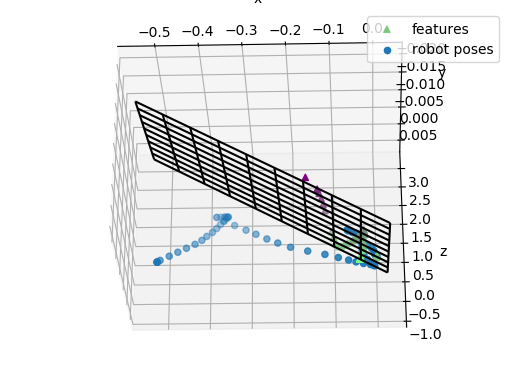
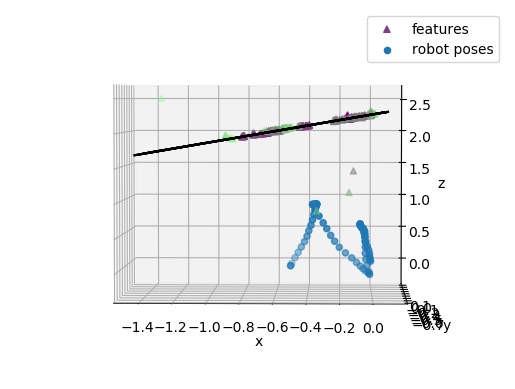
working triangulation and ransac

Changed region(s): [[0.2175, 0.0617, 0.8699, 0.8946], [0.8388, 0.0925, 0.8699, 0.1234]]

diff --git a/l3_mapping.py b/l3_mapping.py
@@ -5,12 +5,13 @@ import os
 import glob
 
 import numpy as np
-import cv2 
+import cv2
 import scipy.io as sio
 from matplotlib import pyplot as plt
 from mpl_toolkits.mplot3d import Axes3D
 import numpy.linalg as la
 from sympy import Plane, Point3D
+
 
 class FeatureProcessor:
     def __init__(self, data_folder, n_features=500, median_filt_multiplier=1.0):
@@ -78,33 +79,33 @@ class FeatureProcessor:
             kp, des = self.get_features(img)
             matches = self.bf.match(des, des_0)
 
-            matches = sorted(matches, key=lambda x: x.distance)
-            avg = sum(point.distance for point in matches)/len(matches)
+            # matches = sorted(matches, key=lambda x: x.distance)
+            avg = sum(point.distance for point in matches) / len(matches)
 
             # lowes ratio test to get the good matches
             for match in matches:  # not sure if there's a better way to filter this
-                if match.distance < 0.75*avg:
+                if match.distance < 1.2 * avg:
                     train_f_num = match.trainIdx
                     query_f_num = match.queryIdx
                     # print(train_f_num, query_f_num)
                     self.feature_match_locs[img, train_f_num, 0] = kp[query_f_num].pt[0]
-                    self.feature_match_locs[img, train_f_num, 1] = kp[query_f_num].pt[1]    
+                    self.feature_match_locs[img, train_f_num, 1] = kp[query_f_num].pt[1]
 
-        # includes the first frame feature locations
+                    # includes the first frame feature locations
         return self.feature_match_locs
 
     def ransac(self, triangulated_points):
         """ Feature rejection function
         :param triangulated_points: np array, (num_features, 3) all triangulated points
-        :return good_points: (N, 3) where N is the total number of inliers
+        :return bestinliers: (N, ), indices of the inliers, where N is the total number of inliers
         """
         # we only expect to have the 5-10% outliers, so we'll set the minimum inliers
         # to be 92% of the total number of features.
         num_features = triangulated_points.shape[0]
-        
+
         # tunable parameters
         mininliers = .92 * num_features
-        alpha = 0.005
+        alpha = 0.045
 
         maxinliers = 0
         sympy_points = np.ndarray((num_features, 3))
@@ -118,50 +119,47 @@ class FeatureProcessor:
             normal, d = self.compute_plane(triangulated_points[rand_pts, :])
 
             # make the points into a plane object
-            point = triangulated_points[rand_pts[0], :]
-            print('first point on plane: ' + str(point))
-            print('normal: ' + str(normal))
-            plane = Plane(Point3D(point[0], point[1], point[2]), normal_vector=normal)
+            plane = Plane(Point3D(triangulated_points[rand_pts[0], :]), normal_vector=normal)
 
             # compute the reprojection error for all the points
-            reproj = np.ndarray((num_features, 1))
+            reproj = np.ndarray((num_features, ))
             for j in range(num_features):
-                reproj[i] = plane.distance(Point3D(sympy_points[i, 0], sympy_points[i, 1], sympy_points[i, 2]))
-            print(reproj)
-            inliers = reproj[reproj < alpha]
-            ninliers = inliers.shape[0]
+                reproj[j] = plane.distance(Point3D(sympy_points[j, :]))
+            # print(reproj)
+            inliers = reproj < alpha
+            ninliers = np.sum(inliers)
 
             # update the max values if applicable
             if ninliers > maxinliers:
                 maxinliers = ninliers
                 bestinliers = inliers
-                # check exit condition 
+                # check exit condition
                 if maxinliers > mininliers:
+                    print('required', i, 'RANSAC attempts to remove outliers.')
                     break
 
         print('number of inliers: ' + str(maxinliers))
-        # recompute the equation of the plane from the best inliers
-        # a, b, c, d = self.compute_plane(bestinliers)
+
+        # returns the inlier indices, not the actual values
         return bestinliers
 
     def compute_plane(self, points):
         """ Compute the equation of the plane that best fits the set of points provided
-        If given 3 points, then the problem will have an exact solution. 
+        If given 3 points, then the problem will have an exact solution.
         :param points: np array, Nx3 array of points (x, y, z)
         :return normal, d: normal is (3,) np array of [a, b, c], and d is the constant
             in the equation of the plane. """
-
         # fit a plane to the feature point cloud for illustration
         # see https://math.stackexchange.com/questions/99299/best-fitting-plane-given-a-set-of-points
         centroid = points.mean(axis=0)
-        points_minus_cent = points - centroid # subtract centroid
+        points_minus_cent = points - centroid  # subtract centroid
         u, _, _ = np.linalg.svd(points_minus_cent.T)
         normal = u.T[2]
 
         # normal from svd, point is centroid, get d = -(ax + by + cz)
         d = -centroid.dot(normal)
 
-        print('The equation is {0}x + {1}y + {2}z = {3}'.format(normal[0], normal[1], normal[2], d))
+        # print('The equation is {0}x + {1}y + {2}z = {3}'.format(normal[0], normal[1], normal[2], d))
         return normal, d
 
 def triangulate(feature_data, tf, inv_K):
@@ -174,31 +172,32 @@ def triangulate(feature_data, tf, inv_K):
     :param tf: np array (num_images, 4, 4) - homogeneous transformations for each frame
     :param inv_K: np array (3, 3) - inverse of the camera intrinsics matrix
     :returns pt: np array (3, ) - point in 3D space """
-    # compute the unit normals in the direction of the feature
-    homogeneous_pts = np.hstack((feature_data, np.ones((tf.shape[0], 1))))
-    rays = np.zeros((67, 3), dtype=float)
-    for i in range(tf.shape[0]):
-        # check that the points are not -1 (i.e. no feature found) first.
-        if homogeneous_pts[i, 0] != -1 and homogeneous_pts[i, 1] != -1:
-            # print(np.dot(tf[i, 0:3, 0:3], np.dot(inv_K, homogeneous_pts[i, :]).T))
-            rays[i, :] = np.dot(tf[i, 0:3, 0:3], np.dot(inv_K, homogeneous_pts[i, :]).T)
-            # normalize the rays
-            rays[i, :] /= la.norm(rays[i, :])
 
-    # extract all the non-zero rays
-    rays = rays[~np.all(rays == 0, axis=1)]
-    # print(rays.shape)
-    # print(rays)
-
-    # compute the sums I - vj.T*vj and (I - vj.T*vj)*cj
+    tot_features = feature_data.shape[0]  # total number of features
     sum1 = np.zeros((3, 3), dtype=float)
-    sum2 = np.zeros((3,), dtype=float)
-    for i in range(rays.shape[0]):
-        sum1 += np.subtract(tf[i, 0:3, 0:3], np.dot(rays[i, :].T, rays[i, :]))
-        sum2 += np.dot(np.subtract(tf[i, 0:3, 0:3], np.dot(rays[i, :].T, rays[i, :])), tf[i, 0:3, 3])
+    sum2 = np.zeros((3, 1), dtype=float)
+
+    for j in range(0, tot_features):
+        x, y = feature_data[j][0], feature_data[j][1]
+
+        if x < 0 or y < 0:
+            # print("Invalid")
+            continue
+
+        r = np.array([x, y, 1]).reshape((3, 1))
+        C = tf[j, 0:3, 0:3]
+        vj = C @ inv_K @ r
+        vj /= np.linalg.norm(vj)
+
+        cent_j = (tf[j][:3, 3]).reshape((3, 1))
+        # print(cent_j.shape)
+
+        sum1 += np.identity(3) - (vj @ vj.T)
+        sum2 += (np.identity(3) - (vj @ vj.T)) @ cent_j
 
     point = np.dot(la.inv(sum1), sum2)
-    return point
+    return point.squeeze()
+
 
 def main():
     min_feature_views = 20  # minimum number of images a feature must be seen in to be considered useful
@@ -210,35 +209,47 @@ def main():
     # load in data, get consistent feature locations
     data_folder = os.path.join(os.getcwd(), 'l3_mapping_data/')
     f_processor = FeatureProcessor(data_folder)
+
     # get_matches includes lowes ratio test for extracting good matches.
-    good_feature_locations = f_processor.get_matches()  # output shape should be (num_images, num_features, 2)
-    print('shape of matches: ' + str(good_feature_locations.shape))
-    num_landmarks = good_feature_locations.shape[1]
-    print('num landmarks: ' + str(num_landmarks))
-    num_frames = good_feature_locations.shape[0]
+    feature_locations = f_processor.get_matches()  # output shape should be (num_images, num_features, 2)
+    # print('shape of matches: ' + str(good_feature_locations.shape))
+    num_landmarks = feature_locations.shape[1]
+    # print('num landmarks: ' + str(num_landmarks))
+    num_frames = feature_locations.shape[0]
+
+    validFeat = np.zeros(num_landmarks)
+
+    for frame in range(0, num_frames):
+        for landmark in range(0, num_landmarks):
+            if feature_locations[frame, landmark, 0] > -1 and feature_locations[frame, landmark, 1] > -1:
+                validFeat[landmark] += 1
+
+    # create a boolean array for ever frame that meets our min feature criteria
+    final_landmarks = validFeat > min_feature_views
+
+    # num_landmarks = np.sum(valid_features)
+    good_feature_locations = feature_locations[:, final_landmarks, :]
+    num_landmarks = np.sum(final_landmarks)
+    print('landmarks after filtering features: ', num_landmarks)
 
     pc = np.zeros((num_landmarks, 3))
 
     # create point cloud map of features
     tf = sio.loadmat("l3_mapping_data/tf.mat")['tf']
-    tf_fixed = np.linalg.inv(tf[0, :, :]).dot(tf).transpose((1, 0, 2))      # (num_images, 4, 4)
+    tf_fixed = np.linalg.inv(tf[0, :, :]).dot(tf).transpose((1, 0, 2))  # (num_images, 4, 4)
     # print(tf_fixed)
     # print('one good landmark has the shape: ' + str(good_feature_locations[:, 0, :].shape))
 
     for i in range(num_landmarks):
-        landmark = good_feature_locations[:, i, :]
-        # check to make sure enough frames have seen this feature, w
-        if num_frames - (np.count_nonzero(landmark == -1) // 2) >= min_feature_views:
-            pc[i] = triangulate(landmark, tf_fixed, inv_K)
-
-    # extract all the non-zero point cloud points
-    # pc = pc[~np.all(pc == 0, axis=1)]
-    # num_landmarks = pc.shape[0]
-    # print(pc)
-    # print(pc.shape)
+        pc[i] = triangulate(good_feature_locations[:, i, :], tf_fixed, inv_K)
 
     # perform RANSAC on the point cloud based on the equation of a plane
-    # pc = f_processor.ransac(pc)
+    ransac_ind = f_processor.ransac(pc)
+    # update good_feature_locations from the points that were returned after ransac
+    pc = pc[ransac_ind, :]
+    good_feature_locations = good_feature_locations[:, ransac_ind, :]
+    num_landmarks = pc.shape[0]
+    print('landmarks after RANSAC: ', num_landmarks)
 
     # ------- PLOTTING TOOLS ------------------------------------------------------------------------------
     # you don't need to modify anything below here unless you change the variable names, or want to modify
@@ -268,7 +279,7 @@ def main():
     # fit a plane to the feature point cloud for illustration
     # see https://math.stackexchange.com/questions/99299/best-fitting-plane-given-a-set-of-points
     centroid = pc.mean(axis=0)
-    pc_minus_cent = pc - centroid # subtract centroid
+    pc_minus_cent = pc - centroid  # subtract centroid
     u, s, vh = np.linalg.svd(pc_minus_cent.T)
     normal = u.T[2]
 
@@ -280,7 +291,7 @@ def main():
     ylim = ax.get_ylim()
     X, Y = np.meshgrid(np.linspace(xlim[0], xlim[1], 10),
                        np.linspace(ylim[0], ylim[1], 10))
-    Z = (-normal[0] * X - normal[1] * Y - d) * 1. /normal[2]
+    Z = (-normal[0] * X - normal[1] * Y - d) * 1. / normal[2]
     ax.plot_wireframe(X, Y, Z, color='k')
 
     # view all final good features matched on first image (to compare to point cloud)
